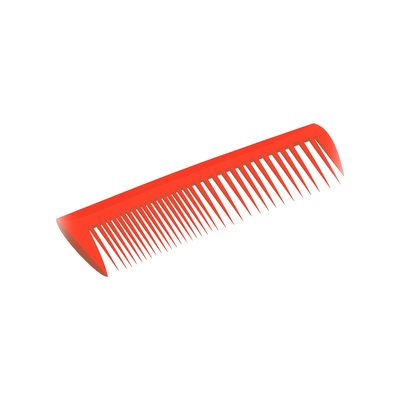
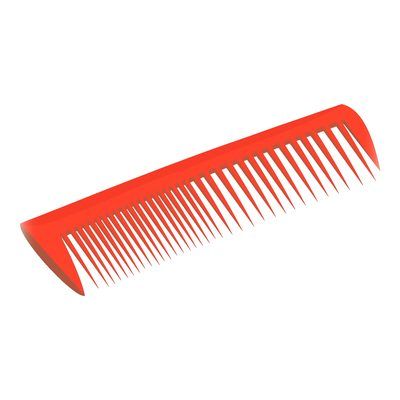
Games v2: phone-fit fixes and 375px screenshots
- Measured every new game at 375 x 812: Done/Pay/answers were below the fold
  on Set the clock, Market day, Join in order Part 2, Where did it go? (3x3)
  and the tutorial screen; fixed with height-aware sizes (clock and demo by
  dvh, smaller ₹ tokens, board takes the space left, 104px boxes)
- Find the Pairs picture-only cards use the whole card (pictures over 60px)
- Glasses, spoon, umbrella and comb photos re-cropped to fill more of the
  frame (logged in image-sources.md)
- docs/games/screens: 11 patient screens at 375 x 812 and the caregiver core
  games settings, with an index

Changed region(s): [[0.03, 0.24, 0.96, 0.75]]

diff --git a/frontend/src/games/objectLocation/ObjectLocation.tsx b/frontend/src/games/objectLocation/ObjectLocation.tsx
@@ -143,14 +143,14 @@ export function ObjectLocationRound({ level, practice = false, onComplete, rng =
         )}
       </QuestionRow>
       {current && (
-        <div className="flex items-center gap-3 self-center rounded-2xl border-4 border-accent bg-surface p-2 pr-4 shadow-lift">
-          <Photo id={current} className="size-[5rem] rounded-xl" />
+        <div className="flex items-center gap-3 self-center rounded-2xl border-4 border-accent bg-surface p-1.5 pr-4 shadow-lift">
+          <Photo id={current} className="size-[4rem] rounded-xl" />
           <span className="text-2xl font-bold">{objectName(current)}</span>
         </div>
       )}
       <div
         className="mx-auto grid gap-2.5"
-        style={{ gridTemplateColumns: `repeat(${config.cols}, 5.4rem)` }}
+        style={{ gridTemplateColumns: `repeat(${config.cols}, 5.2rem)` }}
         role="group"
         aria-label={copy.games.objectLocation.title}
       >
@@ -165,7 +165,7 @@ export function ObjectLocationRound({ level, practice = false, onComplete, rng =
               onClick={() => tapBox(box)}
               onAnimationEnd={() => setNudged((n) => (n === box ? null : n))}
               aria-label={inside ? t.boxWith(box + 1, objectName(inside)) : t.box(box + 1)}
-              className={`relative flex size-[5.4rem] items-center justify-center overflow-hidden rounded-2xl border-4 bg-surface shadow-lift ${pressable} ${
+              className={`relative flex size-[5.2rem] items-center justify-center overflow-hidden rounded-2xl border-4 bg-surface shadow-lift ${pressable} ${
                 isPlaced ? "border-calm" : inside ? "border-accent" : "border-brand"
               } ${nudged === box ? "gentle-nudge" : ""} ${answerBox === box ? "calm-glow ring-4 ring-accent-strong ring-offset-2 ring-offset-surface" : ""}`}
             >

diff --git a/frontend/src/games/moneyHandling/MoneyHandling.tsx b/frontend/src/games/moneyHandling/MoneyHandling.tsx
@@ -37,7 +37,7 @@ function PieceButton({ piece, onClick, glow, label }: { piece: Piece; onClick: (
       aria-label={label}
       className={`touch-manipulation rounded-lg ${pressable} ${glow ? "calm-glow ring-4 ring-accent-strong ring-offset-2 ring-offset-surface" : ""}`}
     >
-      {piece.kind === "note" ? <NoteArt value={piece.value} className="h-[3.4rem] w-[6.8rem]" /> : <CoinArt value={piece.value} className="size-[3.4rem]" />}
+      {piece.kind === "note" ? <NoteArt value={piece.value} className="h-[3rem] w-[6rem]" /> : <CoinArt value={piece.value} className="size-[3rem]" />}
     </button>
   );
 }
@@ -74,10 +74,10 @@ function PayRound({ round, onComplete, practice = false }: RoundProps & { round:
   return (
     <div className="flex min-h-0 flex-1 flex-col gap-3">
       <QuestionRow spoken={prompt}>
-        <p className="text-2xl font-semibold">{prompt}</p>
-        {slipped && <p className="mt-1 text-xl text-brand-dark">{t.practiceHint(round.target)}</p>}
+        <p className="text-xl font-semibold">{prompt}</p>
+        {slipped && <p className="mt-1 text-lg text-brand-dark">{t.practiceHint(round.target)}</p>}
       </QuestionRow>
-      <section aria-label={t.counter} className="flex min-h-[6.5rem] flex-col gap-1 rounded-2xl border-4 border-dashed border-line-strong bg-sunken p-2">
+      <section aria-label={t.counter} className="flex min-h-[5.4rem] flex-col gap-1 rounded-2xl border-4 border-dashed border-line-strong bg-sunken p-2">
         <p className="flex items-center gap-2 text-lg text-ink-soft">
           <ShoppingBasket aria-hidden="true" className="size-5" />
           {t.counter}

diff --git a/frontend/src/games/clockSetting/ClockSetting.tsx b/frontend/src/games/clockSetting/ClockSetting.tsx
@@ -97,12 +97,12 @@ function SetRound({ round, onComplete }: RoundProps & { round: ClockRound }) {
     <div className="flex min-h-0 flex-1 flex-col gap-2">
       <QuestionRow spoken={`${prompt} ${step}`}>
         <p className="text-2xl font-semibold">{prompt}</p>
-        {!round.wordsOnly && <p className="text-xl text-ink-soft">{t.inDigits(digits(target))}</p>}
-        <p className="mt-1 text-xl text-brand-dark" aria-live="polite">
+        {!round.wordsOnly && <p className="text-lg text-ink-soft">{t.inDigits(digits(target))}</p>}
+        <p className="text-lg text-brand-dark" aria-live="polite">
           {step}
         </p>
       </QuestionRow>
-      <div className="mx-auto w-full max-w-[17rem]">
+      <div className="mx-auto w-[min(17rem,32dvh)]">
         <ClockFace face={round.face} hour={hour} minute={minute} label={t.clockLabel} onTapAngle={place} onStep={stepHand} />
       </div>
       <div className="flex gap-2">
@@ -145,7 +145,7 @@ function ReadRound({ round, onComplete, practice = false, rng = Math.random }: R
         <p className="text-2xl font-semibold">{prompt}</p>
         {slipped && <p className="mt-1 text-xl text-brand-dark">{t.practiceHint(timeWords(answer))}</p>}
       </QuestionRow>
-      <div className="mx-auto w-full max-w-[14rem]">
+      <div className="mx-auto w-[min(14rem,28dvh)]">
         <ClockFace face={round.face} hour={round.time.h + round.time.m / 60} minute={round.time.m} label={t.clockShowing(timeWords(round.time))} />
       </div>
       <div className="flex flex-col gap-3">

diff --git a/frontend/src/games/memoryMatch/MemoryMatch.tsx b/frontend/src/games/memoryMatch/MemoryMatch.tsx
@@ -126,7 +126,7 @@ export function MemoryMatchRound({ level, onComplete, rng = Math.random }: Round
               aria-label={faceUp ? label : copy.games.memoryMatch.faceDown(index + 1)}
               style={{ containerType: "size", perspective: "600px" }}
               className={
-                "flex min-h-0 touch-manipulation flex-col items-center justify-center overflow-hidden rounded-2xl border-4 p-1 text-center " +
+                `flex min-h-0 touch-manipulation flex-col items-center justify-center overflow-hidden rounded-2xl border-4 text-center ${showWords ? "p-1" : "p-0"} ` +
                 "transition-[transform,background-color,border-color] duration-150 ease-calm active:scale-[0.96] motion-reduce:active:scale-100 " +
                 (matched.has(index)
                   ? "calm-glow border-calm bg-calm-soft"
@@ -150,7 +150,7 @@ export function MemoryMatchRound({ level, onComplete, rng = Math.random }: Round
                       className={
                         showWords
                           ? "h-[calc(100cqh-2.2rem)] max-h-[5rem] w-auto max-w-[85cqw]"
-                          : "h-[86cqh] max-h-24 w-auto max-w-[86cqw]"
+                          : "h-[96cqh] max-h-24 w-auto max-w-[96cqw]"
                       }
                     />
                     {showWords && <span className="mt-1 text-base font-semibold leading-tight text-ink">{label}</span>}

diff --git a/frontend/src/games/colourTrails/ColourTrails.tsx b/frontend/src/games/colourTrails/ColourTrails.tsx
@@ -70,12 +70,12 @@ export function ColourTrailsRound({ level, practice = false, onComplete, rng = M
   return (
     <div className="flex min-h-0 flex-1 flex-col gap-3">
       <QuestionRow spoken={lookFor ?? prompt}>
-        <p className="text-2xl" aria-live="polite">
+        <p className="text-xl" aria-live="polite">
           {lookFor ?? prompt}
         </p>
         <p className="mt-1 text-xl font-semibold text-brand-dark">{t.joinedOf(joined.length, config.length)}</p>
       </QuestionRow>
-      <div className="relative min-h-[22rem] flex-1">
+      <div className="relative min-h-[16rem] flex-1">
         <svg aria-hidden="true" className="pointer-events-none absolute inset-0 size-full" viewBox="0 0 100 100" preserveAspectRatio="none">
           {joined.slice(1).map((item, i) => {
             const from = joined[i]!;

diff --git a/frontend/src/copy.ts b/frontend/src/copy.ts
@@ -179,7 +179,7 @@ export const copy = {
       title: "Join in order",
       intro: "Tap the numbers in order, one after another.",
       promptPart1: "Tap the numbers in order: 1, then 2, then 3, and on.",
-      promptPart2: "Tap in order, changing each time: teal circle 1, then saffron square 2, then teal circle 3.",
+      promptPart2: "Change each time: teal circle 1, saffron square 2, teal circle 3, and on.",
       /** After a tap that doesn't join: which number comes next (never "wrong"). */
       lookFor: (n: number, mark: "circle" | "square" | null) =>
         mark === null ? `Let's look for ${n}.` : `Let's look for the ${mark === "circle" ? "teal circle" : "saffron square"} ${n}.`,

diff --git a/frontend/src/games/GameSession.tsx b/frontend/src/games/GameSession.tsx
@@ -241,10 +241,12 @@ export function GameSession({ game, rng, onPlayingChange }: GameSessionProps) {
 
     case "tutorial":
       return (
-        <div className="flex flex-col gap-4">
+        <div className="flex flex-col gap-3">
           <h2 className="text-3xl font-bold">{copy.games.tutorialHeading}</h2>
-          <game.tutorial.Demo />
-          <div className="flex flex-col gap-2 text-2xl">
+          <div className="mx-auto w-[min(20rem,30dvh)]">
+            <game.tutorial.Demo />
+          </div>
+          <div className="flex flex-col gap-1 text-xl">
             {game.tutorial.steps.map((step) => (
               <p key={step}>{step}</p>
             ))}

diff --git a/frontend/src/games/colourTrails/logic.ts b/frontend/src/games/colourTrails/logic.ts
@@ -75,7 +75,7 @@ export function buildTrail(config: TrailConfig, rng: Rng): TrailItem[] {
     const cell = cells[i]!;
     const col = cell % cols;
     const row = Math.floor(cell / cols);
-    const jitter = () => (rng() - 0.5) * 0.3;
+    const jitter = () => (rng() - 0.5) * 0.16;
     return {
       id: i,
       ...spec,

diff --git a/docs/games/screens/README.md b/docs/games/screens/README.md
@@ -1,0 +1,23 @@
+# Games v2 screens (375 × 812)
+
+Taken with headless Chrome at 375 × 812 with reduced motion, on a fresh demo patient. Levels were
+raised through the API with perfect sessions to show later boards. On every game screen the whole
+board and every answer or commit button are visible without scrolling (measured: page height = 812).
+
+| File | What it shows |
+|---|---|
+| `01-games-list.png` | Today's games with the new default core set (About Today, a core game, the weekly voice task) |
+| `02-tutorial-set-the-clock.png` | First-time tutorial: spoken steps on screen and a hand showing one move |
+| `03-practice-set-the-clock.png` | The practice round (read o'clock), never stored |
+| `04-join-in-order-part-2.png` | Join in order, Part 2: teal circles and saffron squares, same-number decoys |
+| `05-where-did-it-go-study.png` | Where did it go?, study: one object at a time in its box, "Next" |
+| `06-where-did-it-go-recall.png` | Where did it go?, recall: the object above a 3×3 grid of 104px boxes |
+| `07-set-the-clock.png` | Set the clock: short hand / long hand and Done |
+| `08-market-day.png` | Market day: the counter, the purse of simplified ₹ tokens, Pay |
+| `09-tap-the-squares.png` | Tap the squares: a square lit during playback |
+| `10-find-the-pairs-20-cards.png` | Find the Pairs at 10 pairs: 4 columns, pictures over 60px |
+| `11-delayed-word-recall.png` | The delayed word check at the start of another game |
+| `12-caregiver-games-settings.png` | Caregiver Settings (1280 wide): core games with their domains |
+
+Not shown: the About Today festival question (a 6th round, only in the 30 days before a ticked
+festival) and the "More games" screen; both are covered by tests.

diff --git a/docs/games/image-sources.md b/docs/games/image-sources.md
@@ -13,7 +13,7 @@ CC0 or public domain). Contact sheets were reviewed by eye for a single object, 
 background, no people and no text.
 
 **What was changed in every photo:** cropped to the object, squared so the object fills about
-70% of the side (photo edges feathered into the background where the square needed padding),
+70% of the side (90–94% for the long, thin glasses, spoon, umbrella and comb, so they don't read tiny in a 100px box) (photo edges feathered into the background where the square needed padding),
 resized to 400 × 400, saved as WebP and JPEG (each under 40 KB). No colour changes beyond the
 resize. Extra changes are in the last column.
 
